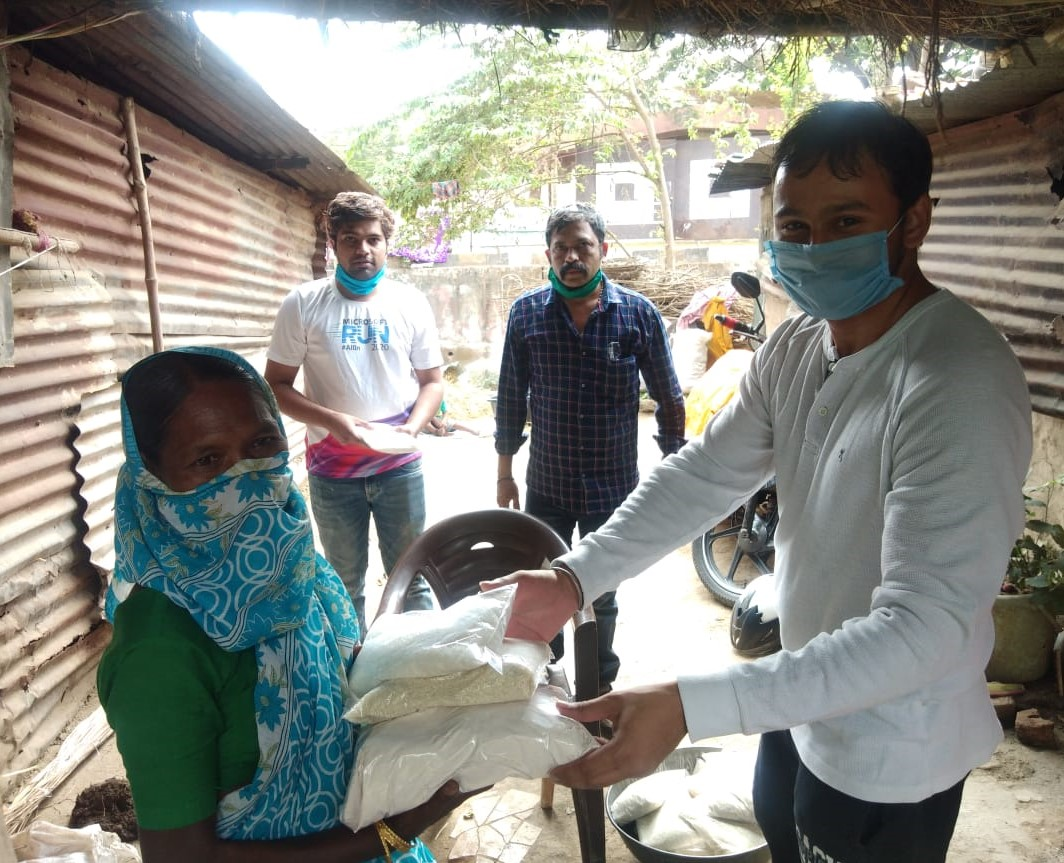
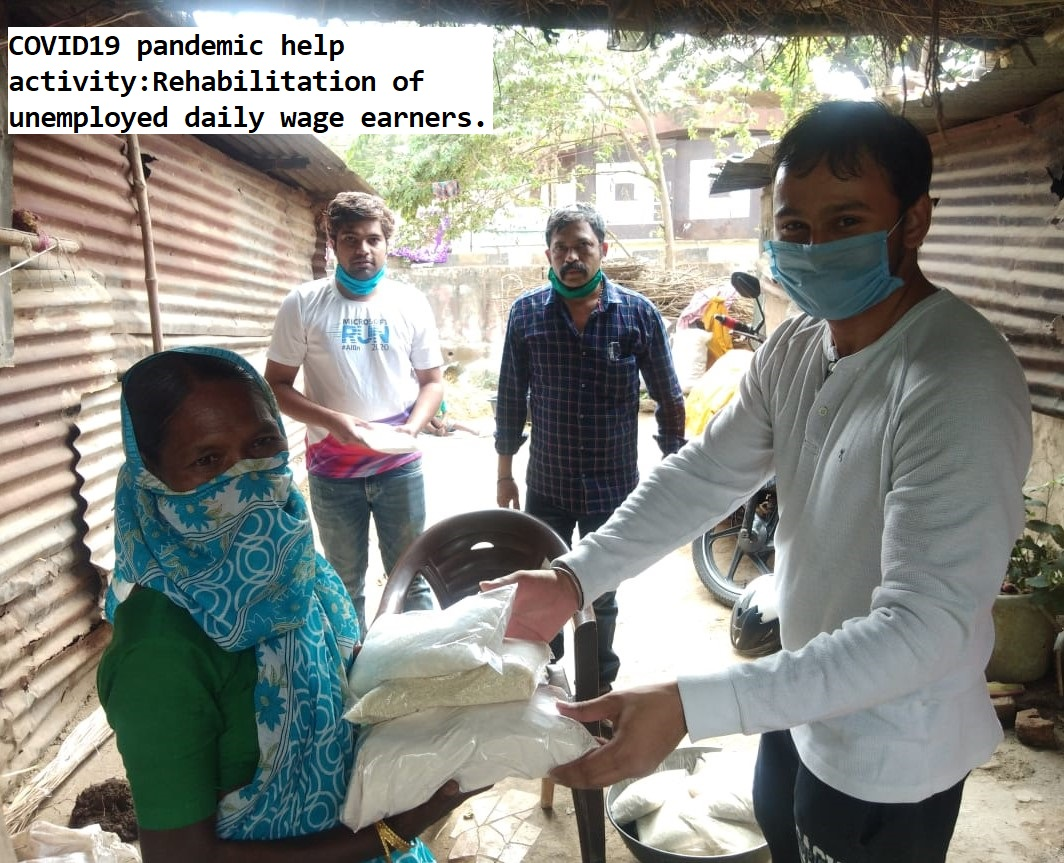
dome

Changed region(s): [[0.0, 0.0301, 0.4652, 0.1808]]

diff --git a/DonateUs.html b/DonateUs.html
@@ -64,10 +64,10 @@
                     <span class="sr-only">Toggle navigation</span> Menu <i class="fa fa-bars"></i>
                 </button>
                 <a class="navbar-brand" href="index.html">
-                  Dayasagar Social & Educational Trust
+                    Dayasagar Social & Educational Trust
                 </a>
             </div>
-             
+
             <a href="DonateUs.html" class="btn btn-outline pull-right" target="_blank">Donate Now</a>
         </div>
         <!-- /.container-fluid -->
@@ -75,20 +75,16 @@
 
     <!-- Header -->
     <header>
-        <div class="container">
+        <!--<div class="container">
             <div class="row">
                 <div class="col-lg-12">
                     <img class="img-responsive" src="img/logo.jpg" alt="">
                     <div class="intro-text">
                         <span class="name">Yes, I want to Donate!</span>
                                        </div>
-                </div> 
+                </div>
             </div>
-        </div>
-    </header>
-  
-    <!-- About Section -->
-    <section class="success" id="about">
+        </div>-->
         <div class="container">
             <div class="row">
                 <div class="col-lg-12 text-center">
@@ -97,35 +93,34 @@
                 </div>
             </div>
             <div class="row">
-                <div class="col-lg-4 col-lg-offset-2">
+                <div class="col-lg-12">
                     <p>
-                        Contact us at following details by mail or call us at +91 922 670 4801. Donate Online facility is coming soon..
-                    </p>
-                </div>
-                 
-                 
-                <div class="col-lg-4">
-                    <p> 
+                        <b>UPI Id: dayasagarsocialtrust@okhdfcbank</b>
                         <br />
-                        <b>Contact Person: </b>Samson J. Nikalje
-                        <br />
-                        <b>Phone: </b>+91 922 670 4801
-                        <br />+91253-6061111<br />
-                        <b>Registration No: </b>Maharashtra/128/2008/Nashik.F/9775/Nashik.
-                        <br />
-                        <b>E-mail address: </b>dayasagarsocialtrust@gmail.com
-                        
+                        <b>Registration No: </b>Maharashtra/128/2008/Nashik.F/9775/Nashik.</b>
                         <br />
                         <b>Account Number: </b>0299101031519
-                        
                         <br />
                         <b>Ifsc Code: </b>CNRB0000299 
                     </p>
                 </div>
             </div>
+            <div class="row">
+                <div class="col-lg-12">
+                    <p>
+                        Contact us at following details by mail or call us at +91 9226704801.
+                    </p>
+                </div>
+
+            </div>
+
         </div>
+    </header>
+
+    <!-- About Section -->
+    <section class="success" id="about">
     </section>
-      
+
     <section id="contact">
         <div class="container">
             <div class="row">
@@ -273,8 +268,8 @@
             <i class="fa fa-chevron-up"></i>
         </a>
     </div>
- 
- 
+
+
     <!-- jQuery -->
     <script src="vendor/jquery/jquery.min.js"></script>
 

diff --git a/index.html b/index.html
@@ -91,27 +91,22 @@
         <div class="container">
             <div class="row">
                 <div class="col-lg-12">
-                    <img class="img-responsive" src="img/logo.jpg" alt="">
+                    <img class="img-responsive" src="img/logo.jpg" alt="" style="border-radius:10px;">
                     <div class="intro-text">
-                        <span class="name">Dayasagar Social & Educational Trust</span>
-                        <hr class="star-light">
+                        <h4>Dayasagar Social & Educational Trust</h4>
+                        
                         <span class="skills">..An Endless Journey</span> <br />
                         <span class="skills">Now We are ISO Certified NGO</span>
+                        <marquee>
+                            <p>COVID19 pandemic: Help us take our COVID-19 Missions to more people. We appeal to you to help us in any form that suits you by giving your time & expertise or by helping us financially</p>
+                        </marquee>
                     </div>
                 </div>
             </div>
             <div class="row">
                 <div class="col-lg-12">
-                    <div class="intro-text">
-                        <hr class="star-light">
-                        <a href="DonateUs.html" class="btn btn-outline" target="_blank">Donate Now</a>
-                        <!--<form action="https://www.paypal.com/cgi-bin/webscr" method="post" target="_top">
-                            <input type="hidden" name="cmd" value="_s-xclick">
-                            <input type="hidden" name="hosted_button_id" value="RLKN4L7M4YT7L">
-                            <input type="image" src="https://www.paypalobjects.com/en_GB/i/btn/btn_paynowCC_LG.giff" border="0" name="submit" alt="PayPal – The safer, easier way to pay online!">
-                            <img alt="" border="0" src="https://www.paypalobjects.com/en_GB/i/scr/pixel.gif" width="1" height="1">
-                        </form>-->
-
+                    <div class="intro-text"> 
+                        <a href="DonateUs.html" class="btn btn-outline" target="_blank">Donate Now</a> 
                     </div>
                 </div>
             </div>
@@ -192,7 +187,9 @@
                 </div>
             </div>
             <hr />
-            <h3>COVID19 pandemic :Rehabilitation of unemployed daily wage earners</h3>
+            <marquee>
+                <p>COVID19 pandemic help activity:Rehabilitation of unemployed daily wage earners</p>
+            </marquee>
             <div class="row">
                 <div class="col-sm-4">
                     <img src="img/portfolio/2020/Covid19/1.jpeg" class="img-responsive" alt="">
